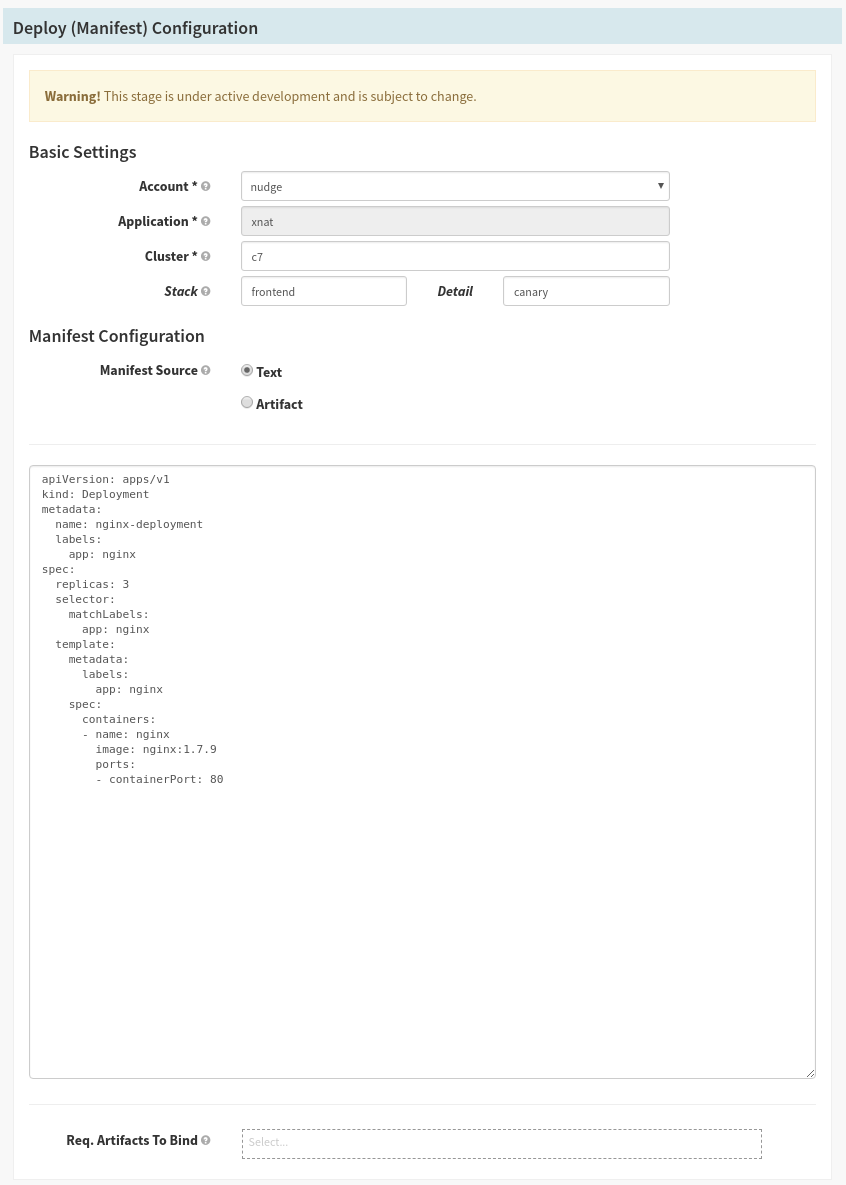
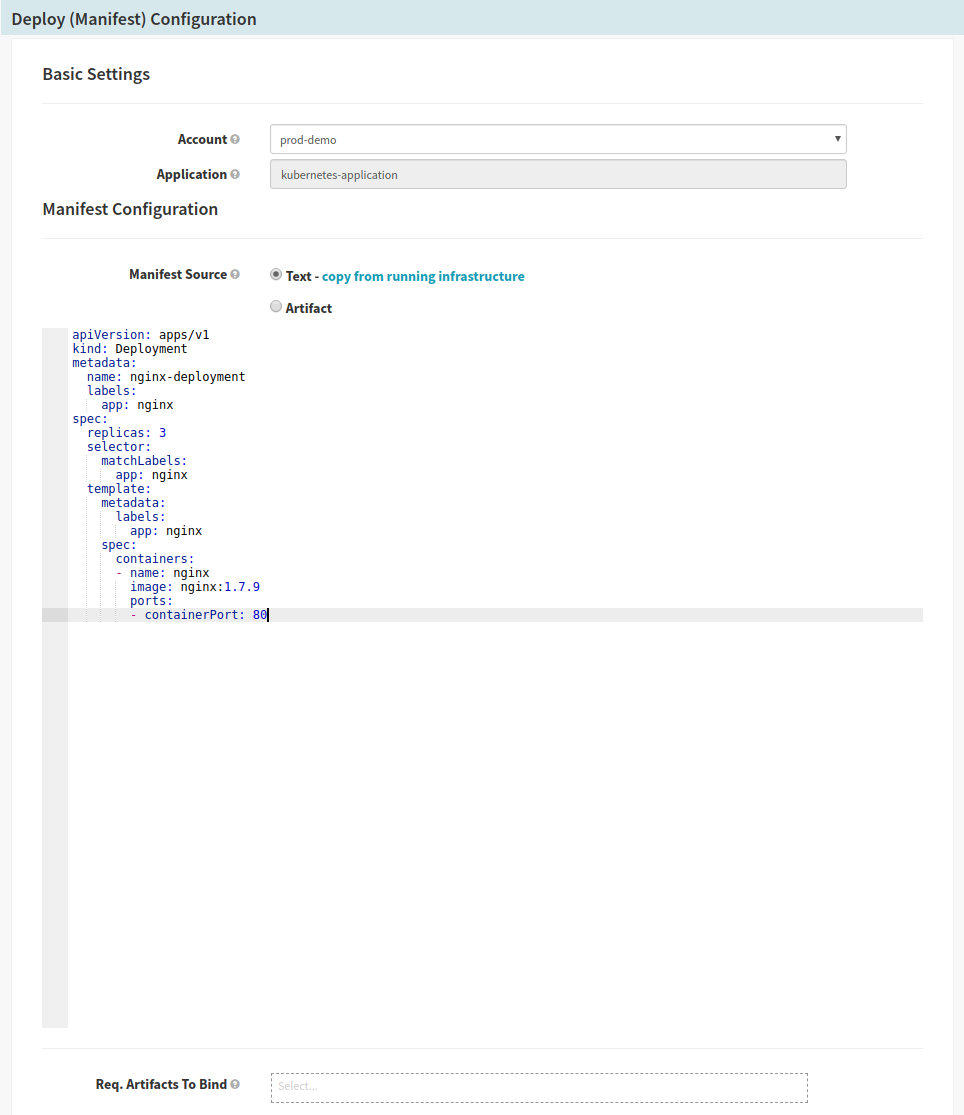
docs(kubernetes): kubernetes traffic updates

diff --git a/guides/user/kubernetes-v2/rollout-strategies/index.md b/guides/user/kubernetes-v2/rollout-strategies/index.md
@@ -1,0 +1,100 @@
+---
+layout: single
+title:  "Rollout Strategies"
+sidebar:
+  nav: guides
+---
+
+{% include alpha version="1.14" %}
+
+{% include toc %}
+
+This guide describes how to take advantage of the
+[Kubernetes V2](/setup/install/providers/kubernetes-v2) provider's first-class support
+for common rollout strategies, including dark, highlander, and red/black rollouts.
+
+The implementation of these rollout strategies currently leverages Spinnaker's existing
+[traffic management strategy](/guides/user/kubernetes-v2/traffic-management/) and so is
+[valid for ReplicaSets only](/guides/user/kubernetes-v2/traffic-management/#you-must-use-replica-sets).
+
+## Rollout Strategy Options
+
+As of version 1.14, you will notice a Rollout Strategy Options section in the Deploy (Manifest)
+stage. When enabled, these configuration options allow you to associate a workload with one or
+more services, decide whether the workload should receive traffic, and determine how Spinnaker
+should handle any previous versions of the workload in the same cluster and namespace.
+
+Configuration options:
+
+- __Service namespace__
+
+  Select the namespace containing the service(s) you would like to associate with the workload.
+  
+- __Service(s)__
+  
+  Select one or more services you would like to associate with the workload. Spinnaker will
+  add a `traffic.spinnaker.io/load-balancers` annotation listing the selected services as
+  described [here](/guides/user/kubernetes-v2/traffic-management/#attach-a-service-to-a-workload).
+  
+- __Traffic__
+
+  Check this box if you would like the workload to begin receiving traffic from the selected
+  services as soon as it is ready. If you do not check this box, you can add a subsequent
+  Enable (Manifest) stage to begin sending traffic to the workload.
+  
+- __Strategy__
+
+  Select a strategy if you would like Spinnaker to handle previous versions of the workload
+  currently deployed to the same cluster and namespace. Select `None` if you do not want
+  Spinnaker to take any action regarding existing workloads.  
+     
+
+### Dark Rollouts
+
+Use a dark rollout to deploy a new version of your application alongside the existing version(s),
+but do not immediately route any traffic to the new version.
+
+Optionally, add subsequent Enable (Manifest) and Disable (Manifest) stage to begin sending traffic
+to the new version and stop sending traffic to the old version(s).
+
+Example configuration:
+
+{%
+  include
+  figure
+  image_path="./dark.png"
+%}
+
+### Highlander Rollouts
+
+Use a highlander rollout to deploy a new version of your application alongside the existing
+version(s), send client traffic to the new version, and then disable and destroy existing versions
+in the cluster.
+
+Example configuration:
+
+{%
+  include
+  figure
+  image_path="./highlander.png"
+%}
+
+### Red/Black Rollouts
+
+Use a red/black rollout to deploy a new version of your application alongside the existing
+version(s), send client traffic to the new version, and then disable existing versions
+in the cluster.
+
+Optionally, add subsequent Destroy (Manifest) stages to clean up any unwanted workloads in the
+cluster.
+
+Alternately, easily roll back to a previous version by configuring an Enable (Manifest) stage or
+using an ad-hoc Enable operation from the Clusters tab.
+
+Example configuration:
+
+{%
+  include
+  figure
+  image_path="./redblack.png"
+%}

diff --git a/reference/providers/kubernetes-v2/index.md b/reference/providers/kubernetes-v2/index.md
@@ -182,6 +182,10 @@ command](https://kubernetes.io/docs/reference/generated/kubectl/kubectl-commands
 
   * `traffic.spinnaker.io/load-balancers: '["service my-service", "service my-canary-service"]'` 
     attaches to the Services named `my-service` and `my-canary-service`.
+    
+  As of Spinnaker 1.14, instead of manually adding the `traffic.spinnaker.io/load-balancers`
+  annotation, you can select which load balancers to associate with a workload from the Deploy
+  (Manifest) stage. Spinnaker will then add the appropriate annotation for you. 
 
 # Reserved labels
 

diff --git a/guides/user/kubernetes-v2/best-practices/index.md b/guides/user/kubernetes-v2/best-practices/index.md
@@ -52,7 +52,7 @@ hydrated manifest recorded.
 
 Anytime Spinnaker deploys a ConfigMap or Secret, it appends a version to
 its name. If that exact ConfigMap or secret is already running in the cluster,
-it's not' redeployed. Downstream stages that reference the ConfigMap or
+it's not redeployed. Downstream stages that reference the ConfigMap or
 secret will deploy the version chosen by Spinnaker. __Unless your application
 requires hot-reloading of configuration, this is essential for practicing
 safe delivery__.

diff --git a/guides/user/kubernetes-v2/deploy-manifest/index.md b/guides/user/kubernetes-v2/deploy-manifest/index.md
@@ -67,11 +67,6 @@ them into the UI, the stage definition would look more like this:
   "source": "text",
   "manifest": {
                                   // manifest contents go here
-  },
-  "moniker": {                    // specifies app & cluster for grouping
-                                  // resources in UI
-    "app": "xnat",
-    "cluster": "c7",
   }
 }
 ```

diff --git a/guides/user/kubernetes-v2/index.md b/guides/user/kubernetes-v2/index.md
@@ -16,3 +16,4 @@ also known as the manifest-based Kubernetes provider.
 * [Annotation-Driven UI](/guides/user/kubernetes-v2/annotations-ui/)
 * [Patch Kubernetes Manifests](/guides/user/kubernetes-v2/patch-manifest/)
 * [Manage Traffic](/guides/user/kubernetes-v2/traffic-management/)
+* [Rollout Strategies](/guides/user/kubernetes-v2/rollout-strategies/)

diff --git a/guides/user/kubernetes-v2/patch-manifest/index.md b/guides/user/kubernetes-v2/patch-manifest/index.md
@@ -5,8 +5,6 @@ sidebar:
   nav: guides
 ---
 
-{% include alpha version="1.8" %}
-
 {% include toc %}
 
 This guide shows the basics of how to update a Kubernetes resource in place using the patch manifest stage for the [Kubernetes Provider V2](/setup/install/providers/kubernetes-v2) provider.

diff --git a/guides/user/kubernetes-v2/traffic-management/index.md b/guides/user/kubernetes-v2/traffic-management/index.md
@@ -5,8 +5,6 @@ sidebar:
   nav: guides
 ---
 
-{% include alpha version="1.11" %}
-
 {% include toc %}
 
 This guide shows the basics of how to manage traffic during deployments using
